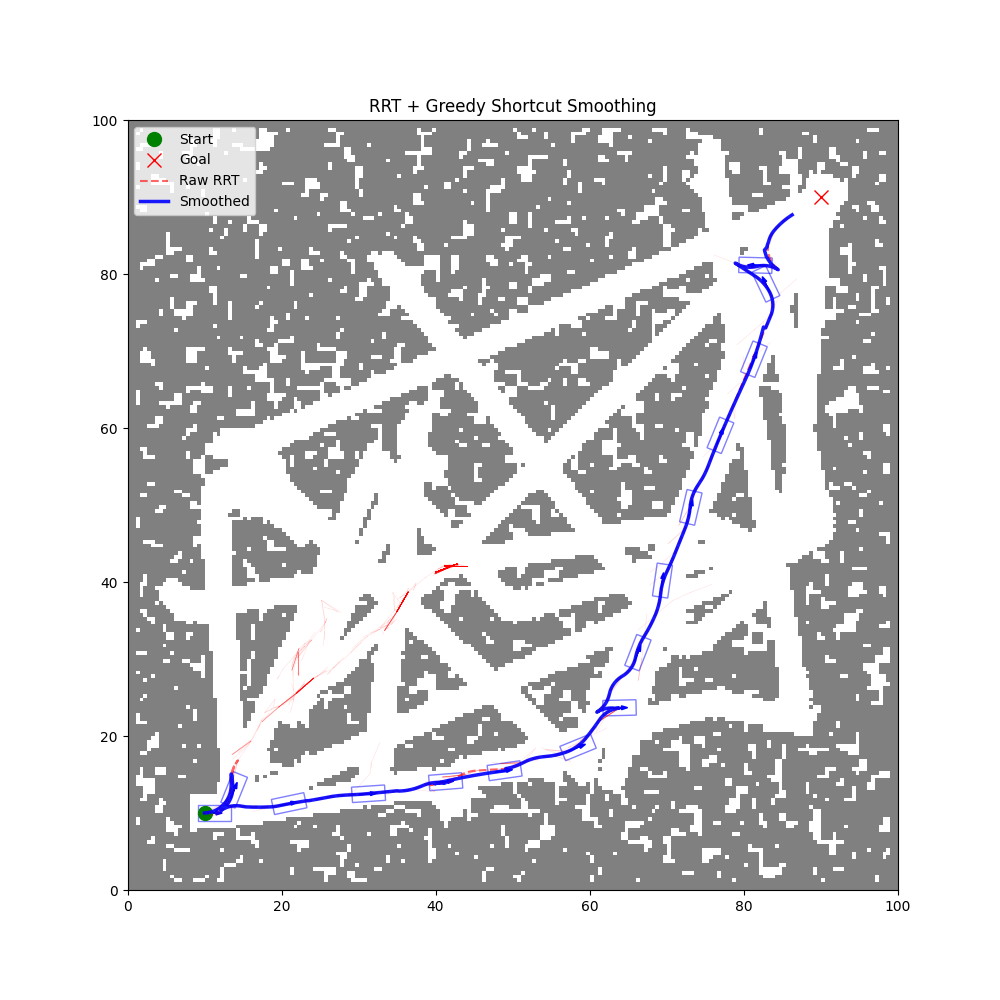
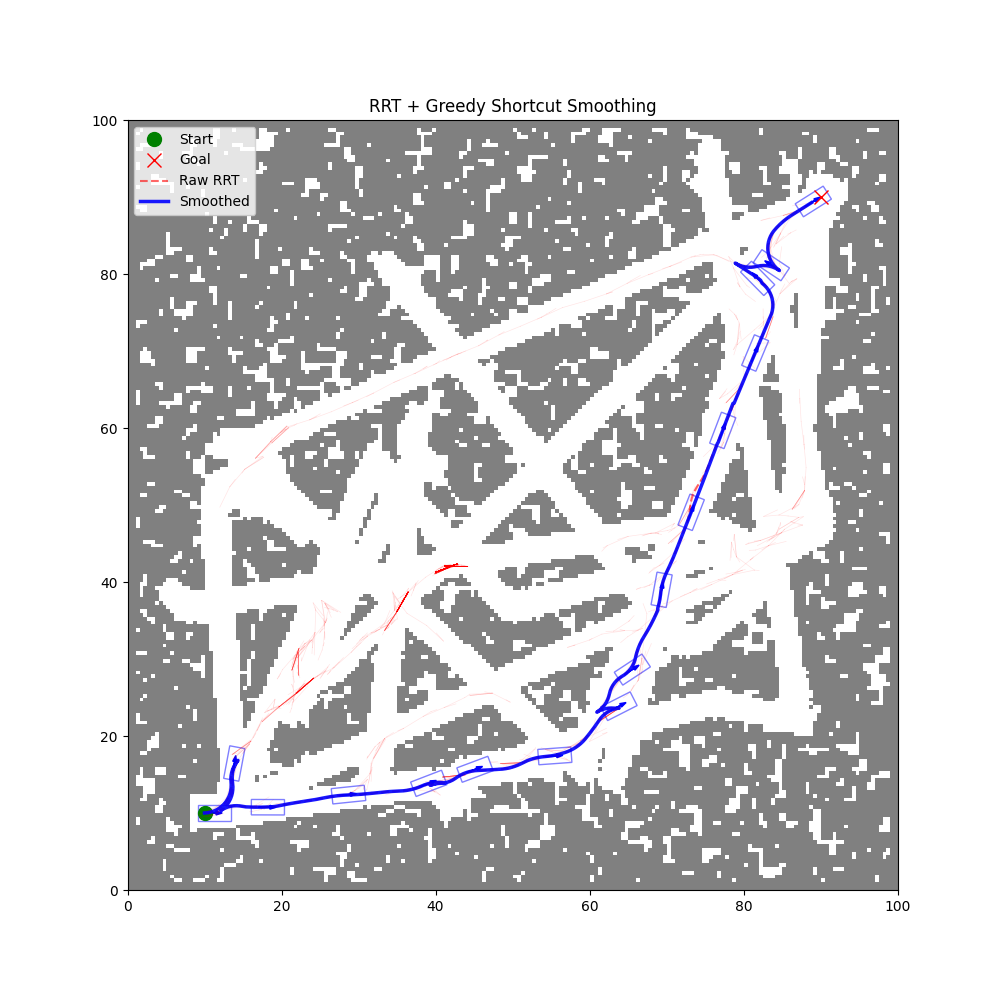
[57]feat(RRTPlanner): 实现分析扩展和回退机制以提升路径规划最终与终点的贴合度
当节点进入目标阈值范围时，尝试分析扩展直接连接精确终点。若失败，则返回阈值范围内最近节点作为回退方案，平衡规划精度与鲁棒性。同时添加轨迹碰撞检查辅助函数。

diff --git a/src/planning/planners/rrt.py b/src/planning/planners/rrt.py
@@ -60,6 +60,10 @@ class RRTPlanner(PlannerBase):
         # 1. 初始化树
         start_node = RRTNode(start)
         self.node_list = [start_node]
+        
+        # Best node tracking for fallback
+        best_node = None
+        min_dist_to_goal = float('inf')
 
         print(f"[RRT] Start planning... Max Iter: {self.max_iter}, Step: {self.step_size}")
 
@@ -86,14 +90,59 @@ class RRTPlanner(PlannerBase):
             # 绘制树枝
             debugger.record_edge(nearest_node.state, new_node.state)
 
-            # 7. 判断是否到达目标
+            # 7. 判断是否到达目标 (区域)
             dist_to_goal = math.hypot(new_node.x - goal.x, new_node.y - goal.y)
+            
+            # Update best node
+            if dist_to_goal < min_dist_to_goal:
+                min_dist_to_goal = dist_to_goal
+                best_node = new_node
+
             if dist_to_goal <= self.goal_threshold:
-                print(f"[RRT] Goal reached at iter {i}!")
-                return self._reconstruct_path(new_node)
+                # [Optimization] Analytic Expansion (尝试直接连接终点)
+                # 当进入阈值范围时，尝试"打一枪"看能不能直接连上精确的终点
+                # 注意：给 max_dist 一个稍微宽裕的值，确保能覆盖剩余距离
+                final_state, trajectory = self.vehicle.propagate_towards(
+                    start=new_node.state,
+                    target=goal,
+                    max_dist=dist_to_goal * 1.5 + 1.0 
+                )
+                
+                # 检查1: 是否真的接近了终点 (因为运动学约束，可能拐不过去)
+                final_dist = math.hypot(final_state.x - goal.x, final_state.y - goal.y)
+                
+                # 检查2: 这段“补枪”路径是否碰撞
+                is_safe = not self._check_collision_trajectory(trajectory, grid_map)
+                
+                if final_dist < 2.0 and is_safe: # 放宽到 2.0m (视觉上已经很近了，比起 5m)
+                     print(f"[RRT] Analytic Expansion succeeded! Goal reached.")
+                     goal_node = RRTNode(final_state)
+                     goal_node.parent = new_node
+                     goal_node.path_from_parent = trajectory
+                     return self._reconstruct_path(goal_node)
+                else:
+                    # Log failure to file for debug
+                    # import os
+                    # os.system(f'python logs/append_log.py "⚠ [DEBUG]" "RRT" "Analytic Exp Failed: Dist={final_dist:.2f}, Safe={is_safe}"')
+                    pass
+        
+        # Fallback: If we couldn't connect exactly, but found something within threshold, return it.
+        # This addresses "RRT Failed" when we were actually close enough.
+        if best_node and min_dist_to_goal <= self.goal_threshold:
+            print(f"[RRT] Exact connection to goal failed. Returning closest node (Dist: {min_dist_to_goal:.2f}m)")
+            return self._reconstruct_path(best_node)
 
         print("[RRT] Max iterations reached, path not found.")
         return []
+
+    def _check_collision_trajectory(self, trajectory: List[State], grid_map: GridMap) -> bool:
+        """辅助函数：检查一段轨迹是否碰撞"""
+        if not trajectory:
+            return False
+        for s in trajectory:
+            if self.collision_checker.check(self.vehicle, s, grid_map):
+                return True
+        return False
 
     def _get_random_sample(self, goal: State, grid_map: GridMap) -> State:
         """随机采样状态"""

diff --git a/logs/dev_journal.md b/logs/dev_journal.md
@@ -9,3 +9,6 @@
 [20:38]  [ISSUE] [Tests] ModuleNotFoundError: No module named 'matplotlib' -> Run in condo environment py310
 [20:39]  [ATTEMPT] [PathSmoothing] Unit Test Execution ->  Passed: Path shortened successfully
 [20:42]  [ISSUE] [PathSmoothing] Test Failed: Smoothed path longer than original (66m > 60m) -> Fix: Add length check before swapping
+[20:54]  [DISCOVERY] [RRTPlanner] Path stops at goal_threshold boundary, leaving a visual gap to the exact goal -> Plan: Implement Analytic Expansion
+[20:56]  [ISSUE] [RRTPlanner] Analytic Expansion caused planning failure (Max Iterations) -> Suspect strict connection constraints. Adding debug prints.
+[21:10]  [ATTEMPT] [RRTPlanner] Impl Fallback: If Analytic Expansion fails, return closest node within threshold ->  Balanced robustness vs precision
